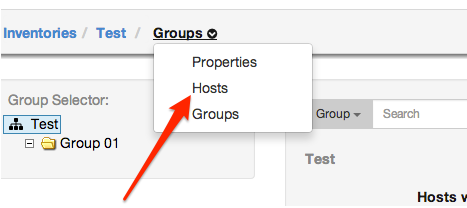
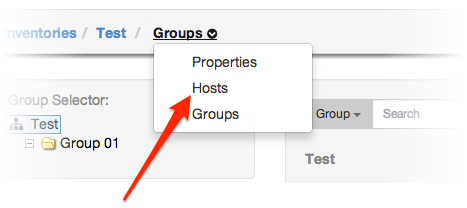
Help generator now supports an img object with src, maxWidth and maxHeight properties. Added fading and sizing changes to Group help images.

diff --git a/awx/ui/static/lib/ansible/Utilities.js b/awx/ui/static/lib/ansible/Utilities.js
@@ -238,7 +238,14 @@ angular.module('Utilities',['RestServices', 'Utilities'])
            function buildHtml(step) {
                var html = ''; 
                html += (step.intro) ? "<div class=\"help-intro\">" + step.intro + "</div>" : "";
-               html += (step.img) ? "<img src=\"" + $basePath + "img/help/" + step.img + "\" style=\"max-width:" + (width - 30) + "px\" >" : "";
+               if (step.img) {
+                  html += "<img src=\"" + $basePath + "img/help/" + step.img.src + "\" ";
+                  html += "style=\"";
+                  html += (step.img.maxWidth) ? "max-width:" + step.img.maxWidth + "px;" : "";
+                  html += (step.img.maxHeight) ? " max-height: " + step.img.maxHeight + "px;" : "";
+                  html += "\" ";
+                  html += ">";
+               }
                html += (step.box) ? "<div class=\"help-box\">" + step.box + "</div>" : "";
                return html;
                }
@@ -265,6 +272,12 @@ angular.module('Utilities',['RestServices', 'Utilities'])
                   showHelp({ defn: nxtStory });
                   }
               
+              try {
+                  $('#help-modal').dialog('hide');
+              }
+              catch(e) {
+                  // ignore
+              }
               $('#help-modal').html(buildHtml(defn.story.steps[nxt])).dialog({
                   position: { my: "center top", at: "center top+150", of: 'body' },
                   title: defn.story.hdr, 
@@ -272,12 +285,20 @@ angular.module('Utilities',['RestServices', 'Utilities'])
                   height: height,
                   buttons: [{ text: "Next", click: nxtStep }],
                   closeOnEscape: true,
+                  show: 500,
+                  hide: 500,
                   close: function() { $('#help-modal').empty(); }
                   });
               $('.ui-dialog-buttonset button').addClass('btn btn-primary').focus();
               $('.ui-dialog-titlebar-close').empty().removeClass('close').removeClass('ui-dialog-titlebar-close').addClass('close').append('x');
            }
            else {
+              try {
+                  $('#help-modal').dialog('hide');
+              }
+              catch(e) {
+                  // ignore
+              }
               $('#help-modal').html(buildHtml(defn.story.steps[nxt])).dialog({
                   position: { my: "center top", at: "center top+150", of: 'body' },
                   title: defn.story.hdr, 
@@ -285,6 +306,8 @@ angular.module('Utilities',['RestServices', 'Utilities'])
                   height: height,
                   buttons: [ { text: "OK", click: function() { $( this ).dialog( "close" ); } } ],
                   closeOnEscape: true,
+                  show: 500,
+                  hide: 500,
                   close: function() { $('#help-modal').empty(); }
                   });
               $('.ui-dialog-buttonset button').addClass('btn btn-primary').focus();

diff --git a/awx/ui/static/js/help/InventorySummary.js b/awx/ui/static/js/help/InventorySummary.js
@@ -14,13 +14,13 @@ angular.module('InventorySummaryHelpDefinition', [])
             steps: {
                 step1: {
                     intro: 'Start by creating a group:',
-                    img: 'help002.png',
+                    img: { src: 'help002.png', maxWidth: 460 , maxHeight: 111 },
                     box: "Click the <em>Create New</em> button and add a new group to the inventory.",
                     height: 400
                     },
                 step2: {
                     intro: 'After creating a group, add hosts:',
-                    img: 'help001.png',
+                    img: { src: 'help001.png', maxWidth: 467, maxHeight: 208 },
                     box: "Navigate to <em>Hosts</em> using the drop-down menu, where you can add hosts to the new group",
                     height: 480
                     }
